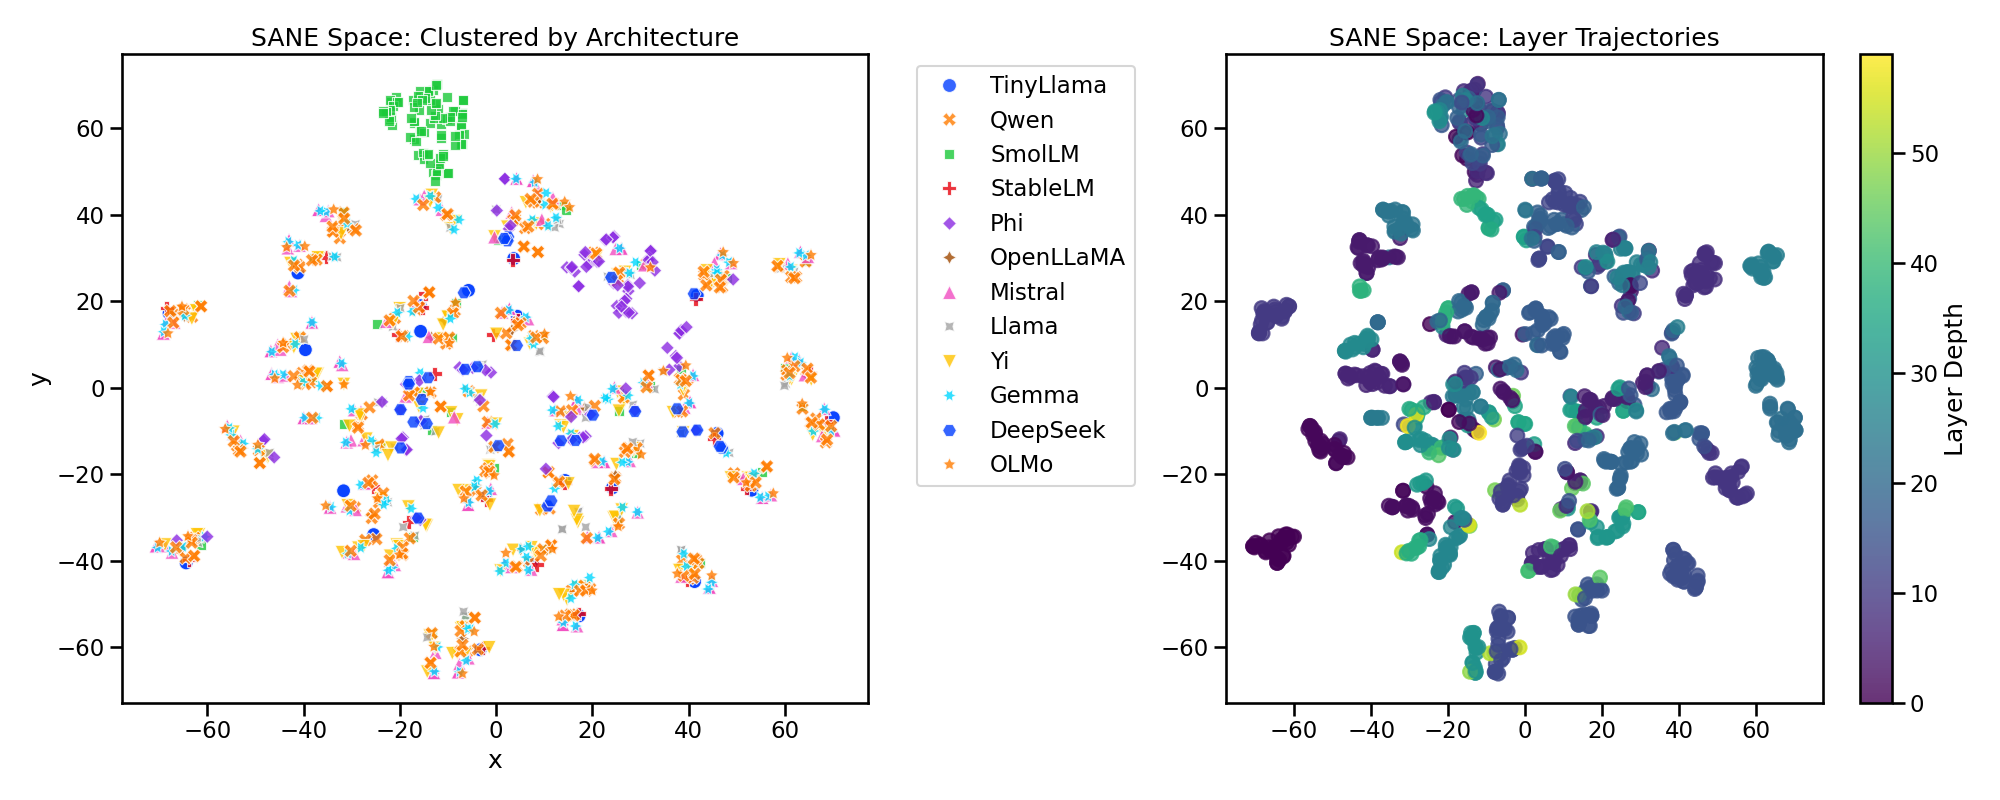
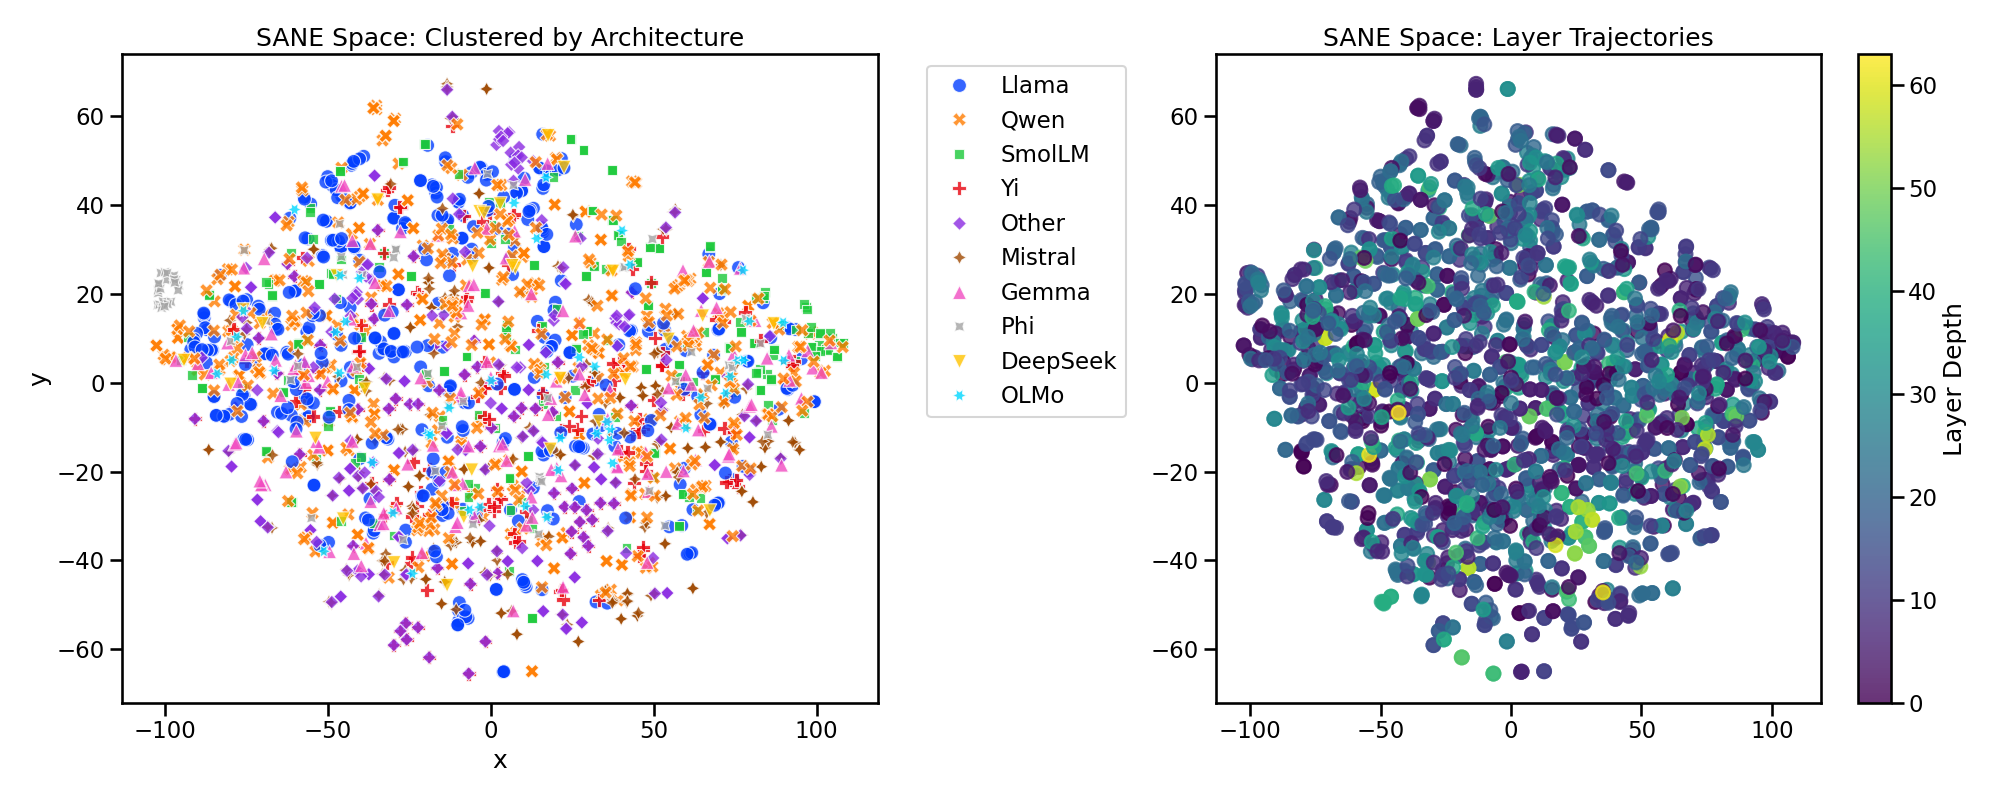
Update data preparation and analysis scripts; add new analyze.sh for embedding analysis and modify paths in existing scripts

diff --git a/experiments/llm_extension/analyze_llm_embeddings.py b/experiments/llm_extension/analyze_llm_embeddings.py
@@ -87,7 +87,7 @@ def load_latest_trial(experiment_dir: Path):
     trial_dirs = [d for d in experiment_dir.iterdir() if d.is_dir() and d.name.startswith("AE_trainable")]
     if not trial_dirs:
         raise FileNotFoundError(f"No training results found in {experiment_dir}")
-    latest_trial = sorted(trial_dirs, key=lambda x: x.stat().st_mtime)[-1]
+    latest_trial = Path("/storage/home/amr.hegazy/ray_results/sane_llm_scaled_multiarch/LLM_AE_trainable_12b15_00000_0_2026-01-19_10-06-00/")
     chkpts = sorted(list(latest_trial.glob("checkpoint_*")))
     if not chkpts:
         raise FileNotFoundError(f"No checkpoints found in {latest_trial}")
@@ -204,6 +204,26 @@ def linear_probe_r2(X, y, folds=5, seed=42):
         reg.fit(X[train_idx], y[train_idx])
         scores.append(reg.score(X[test_idx], y[test_idx]))
     return float(np.mean(scores)), float(np.std(scores))
+
+
+def _zscore(x):
+    x = x.astype(np.float32)
+    mean = np.nanmean(x)
+    std = np.nanstd(x)
+    if std == 0 or not np.isfinite(std):
+        return x - mean
+    return (x - mean) / std
+
+
+def residualize_embeddings(X, covariates):
+    """
+    Regress out covariates from embeddings.
+    covariates: np.ndarray [n_samples, n_covariates]
+    """
+    reg = Ridge(alpha=1.0, fit_intercept=True)
+    reg.fit(covariates, X)
+    X_hat = reg.predict(covariates)
+    return X - X_hat
 
 
 def encode_sequence_with_halo(model, tokens, positions, device, expected_dim, halo_size=0, chunk_size=4096):
@@ -336,7 +356,7 @@ def main():
     parser.add_argument("--experiment_dir", type=str, default="/storage/home/amr.hegazy/ray_results/sane_llm_scaled_multiarch")
     parser.add_argument("--dataset_path", type=str, default="data/scaled_llm_zoo/scaled_llm_dataset.pt")
     parser.add_argument("--device", type=str, default="cuda")
-    parser.add_argument("--batch_size", type=int, default=8)
+    parser.add_argument("--batch_size", type=int, default=4)
     parser.add_argument("--limit", type=int, default=None)
     parser.add_argument("--holdout_only", action="store_true")
     parser.add_argument("--save_json", type=str, default="experiments/llm_extension/embedding_metrics.json")
@@ -464,6 +484,55 @@ def main():
         r2_h_mean, r2_h_std = linear_probe_r2(X[valid], hidden_sizes[valid], folds=5)
         results["hidden_size_r2_mean"] = r2_h_mean
         results["hidden_size_r2_std"] = r2_h_std
+
+    # Size-regressed metrics (hidden size only)
+    if np.isfinite(hidden_sizes).any():
+        valid = np.isfinite(hidden_sizes)
+        cov = _zscore(hidden_sizes[valid]).reshape(-1, 1)
+        X_res = residualize_embeddings(X[valid], cov)
+        acc_mean, acc_std = knn_architecture_accuracy(X_res, families[valid], k=5, folds=5)
+        results["knn_architecture_acc_mean_regress_hidden"] = acc_mean
+        results["knn_architecture_acc_std_regress_hidden"] = acc_std
+        if X_res.shape[0] > 5000:
+            idx = np.random.choice(X_res.shape[0], 5000, replace=False)
+            sil = silhouette_score(X_res[idx], families[valid][idx])
+        else:
+            sil = silhouette_score(X_res, families[valid])
+        results["silhouette_architecture_regress_hidden"] = float(sil)
+        results["n_samples_regress_hidden"] = int(X_res.shape[0])
+
+    # Depth-regressed metrics (layer depth only)
+    if np.isfinite(layer_ids).any():
+        valid = np.isfinite(layer_ids)
+        cov = _zscore(layer_ids[valid]).reshape(-1, 1)
+        X_res = residualize_embeddings(X[valid], cov)
+        acc_mean, acc_std = knn_architecture_accuracy(X_res, families[valid], k=5, folds=5)
+        results["knn_architecture_acc_mean_regress_depth"] = acc_mean
+        results["knn_architecture_acc_std_regress_depth"] = acc_std
+        if X_res.shape[0] > 5000:
+            idx = np.random.choice(X_res.shape[0], 5000, replace=False)
+            sil = silhouette_score(X_res[idx], families[valid][idx])
+        else:
+            sil = silhouette_score(X_res, families[valid])
+        results["silhouette_architecture_regress_depth"] = float(sil)
+        results["n_samples_regress_depth"] = int(X_res.shape[0])
+
+    # Regress out both size + depth when available
+    if np.isfinite(hidden_sizes).any() and np.isfinite(layer_ids).any():
+        valid = np.isfinite(hidden_sizes) & np.isfinite(layer_ids)
+        if np.any(valid):
+            cov = np.stack([_zscore(hidden_sizes[valid]), _zscore(layer_ids[valid])], axis=1)
+            X_res = residualize_embeddings(X[valid], cov)
+            acc_mean, acc_std = knn_architecture_accuracy(X_res, families[valid], k=5, folds=5)
+            results["knn_architecture_acc_mean_regress_hidden_depth"] = acc_mean
+            results["knn_architecture_acc_std_regress_hidden_depth"] = acc_std
+            if X_res.shape[0] > 5000:
+                idx = np.random.choice(X_res.shape[0], 5000, replace=False)
+                sil = silhouette_score(X_res[idx], families[valid][idx])
+            else:
+                sil = silhouette_score(X_res, families[valid])
+            results["silhouette_architecture_regress_hidden_depth"] = float(sil)
+            results["n_samples_regress_hidden_depth"] = int(X_res.shape[0])
 
     # Basic counts
     fam_counts = {f: int(np.sum(families == f)) for f in np.unique(families)}

diff --git a/experiments/llm_extension/prepare_scaled_zoo.py b/experiments/llm_extension/prepare_scaled_zoo.py
@@ -18,34 +18,86 @@ from safetensors.torch import load_file
 # --- Configuration ---
 # Models to Train on (The "Known" World)
 TRAIN_ZOO = [
-    # Small Models (< 2B)
-    "TinyLlama/TinyLlama-1.1B-Chat-v1.0",
-    "TinyLlama/TinyLlama-1.1B-intermediate-step-1431k-3T",
+    # Llama-3 Family
+    "meta-llama/Llama-3.1-8B",
+    "NousResearch/Hermes-3-Llama-3.1-8B",
+    "dphn/Dolphin3.0-Llama3.1-8B",
+    "meta-llama/Llama-3.2-1B",
+    "torchtorchkimtorch/Llama-3.2-Korean-GGACHI-1B-Instruct-v1",
+    "meta-llama/Llama-3.2-3B",
+    "ValiantLabs/Llama3.2-3B-Enigma",
+    "Orenguteng/Llama-3.1-8B-Lexi-Uncensored-V2",
+    
+    # Qwen1.5 Family
     "Qwen/Qwen1.5-0.5B",
+    "Qwen/Qwen1.5-7B",
+    "Qwen/Qwen1.5-14B",
+    "Qwen/Qwen1.5-0.5B-Chat",
+    "Qwen/Qwen1.5-7B-Chat",
+    "Qwen/Qwen1.5-14B-Chat",
+    
+    
+    # SmolLM Family
     "HuggingFaceTB/SmolLM-135M",
     "HuggingFaceTB/SmolLM-360M",
     "HuggingFaceTB/SmolLM-1.7B",
-    "stabilityai/stablelm-2-1_6b",
-    "microsoft/phi-1_5",
-    
-    # Medium Models (2B-10B)
     "HuggingFaceTB/SmolLM3-3B",
-    "openlm-research/open_llama_3b_v2",
-    "stabilityai/stablelm-base-alpha-7b",
-    "mistralai/Mistral-7B-v0.1",
-    "mistralai/Mistral-7B-v0.3",
-    "meta-llama/Llama-2-7b-hf",
+    "sawalni-ai/smollm-fw-darija",
+    "yd915/CosmoSpeak",
+    "vinayp27/smollm3-medical",
+    "ViswanthSai/SmolLM-3B-Code-Specialist-Combined",
+    "Daemontatox/SmolLM-EMC2",
+    
+
+    
+    # Yi Family
     "01-ai/Yi-6B",
     "01-ai/Yi-9B",
-    "mistralai/Mistral-Nemo-Base-2407",
-    "Qwen/Qwen1.5-7B",
-    "Qwen/Qwen2-7B",
-    
-    # Large Models (10B+)
-    "meta-llama/Llama-2-13b-hf",
-    "mistralai/Mistral-Small-24B-Base-2501",
-    "Qwen/Qwen1.5-14B",
     "01-ai/Yi-34B",
+    "NousResearch/Nous-Hermes-2-Yi-34B",
+    "01-ai/Yi-Coder-9B",
+
+    
+    # Mistral Family
+    "mistralai/Mistral-7B-v0.1",
+    "mistralai/Mistral-7B-v0.3",
+    "pucpr-br/Clinical-BR-Mistral-7B-v0.2",
+    "stewhsource/GovernmentGPT",
+    "openfoodfacts/spellcheck-mistral-7b",
+    "OpenLLM-Ro/RoMistral-7b-Instruct",
+    
+    # Llama-2 Family
+    "meta-llama/Llama-2-7b-hf",
+    "meta-llama/Llama-2-13b-hf",
+    "bineric/NorskGPT-Llama-7B-v0.1",
+    "VaisakhKrishna/Llama-2-Emotional-ChatBot",
+    "NousResearch/Nous-Hermes-Llama2-13b",
+    
+    
+    # Mistral Nemo Fa
+    "mistralai/Mistral-Nemo-Base-2407",
+    "DavidAU/Mistral-Nemo-Inst-2407-12B-Thinking-Uncensored-HERETIC-HI-Claude-Opus",
+    "SicariusSicariiStuff/Impish_Bloodmoon_12B",
+    "SicariusSicariiStuff/Angelic_Eclipse_12B",
+    "nbeerbower/mistral-nemo-wissenschaft-12B",
+    "krogoldAI/CelineGPT-12B-v0.1",
+    
+    # Qwen2 Family
+    "Qwen/Qwen2-7B",
+    "Qwen/Qwen2.5-Coder-7B-Instruct",
+    "Orion-zhen/Qwen2.5-7B-Instruct-Uncensored",
+    "Sao10K/32B-Qwen2.5-Kunou-v1",
+    "dphn/Dolphin3.0-Qwen2.5-0.5B",
+    "Snowflake/Qwen-2.5-coder-Arctic-ExCoT-32B"
+    
+    
+    # Mistral Small Family
+    "mistralai/Mistral-Small-24B-Base-2501",
+    "CrucibleLab/M3.2-24B-Loki-V2",
+    "TheDrummer/Rivermind-24B-v1"
+    
+    
+    
 ]
 
 # Models to Test on (The "Unseen" World - Different architectures & scales)

diff --git a/experiments/llm_extension/cluster_llms.py b/experiments/llm_extension/cluster_llms.py
@@ -171,7 +171,7 @@ def main():
 
     # 2. Select a matching SANE checkpoint (by ae:i_dim)
     experiment_dir = Path("/storage/home/amr.hegazy/ray_results/sane_llm_scaled_multiarch")
-    latest_trial = _select_trial_dir(experiment_dir, expected_token_dim or 0)
+    latest_trial = Path("/storage/home/amr.hegazy/ray_results/sane_llm_scaled_multiarch/LLM_AE_trainable_12b15_00000_0_2026-01-19_10-06-00/")
     
     chkpts = sorted(list(latest_trial.glob("checkpoint_*")))
     checkpoint_path = chkpts[-1].joinpath("state.pt")
